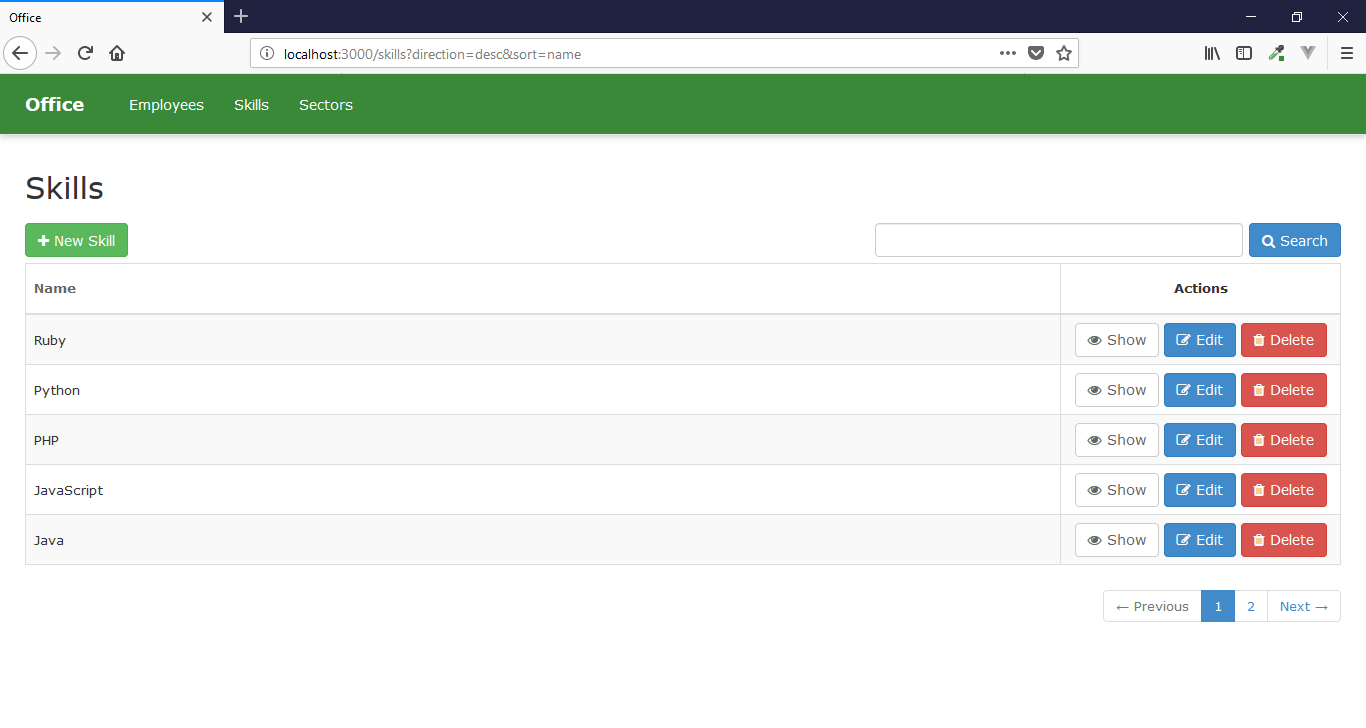
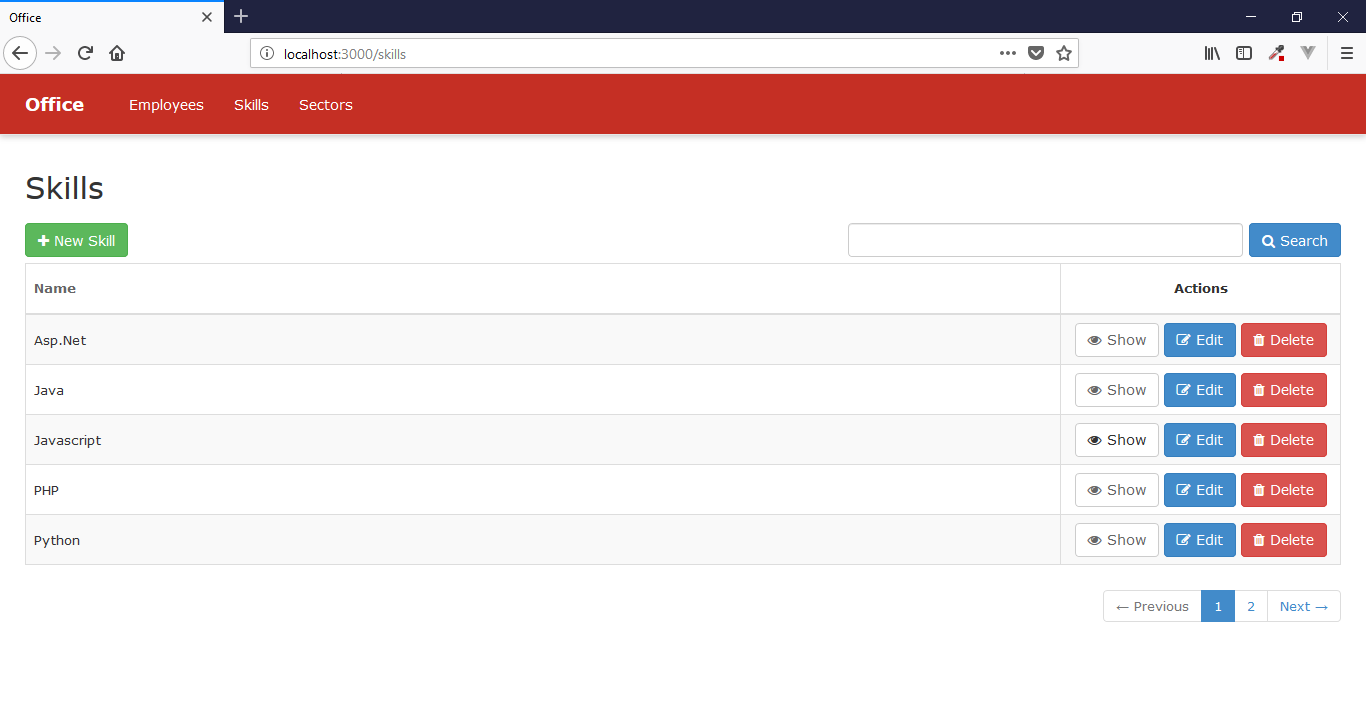
Update files

diff --git a/app/assets/stylesheets/scaffolds.scss b/app/assets/stylesheets/scaffolds.scss
@@ -63,7 +63,7 @@ a.btn-primary {
     z-index: 9 !important;
 }
 .navbar-default {
-    background-color: #398939 !important;
+    background-color: #C52F24 !important;
     box-shadow: 0px 2px 6px #ccc;
 }
 .navbar-default .navbar-nav {
@@ -143,6 +143,10 @@ td {
 
 .container-form {
 	margin-left: -15px !important;
+}
+
+.alert {
+  margin-top: 15px !important;
 }
 
 div {

diff --git a/app/controllers/employees_controller.rb b/app/controllers/employees_controller.rb
@@ -34,7 +34,7 @@ class EmployeesController < ApplicationController
 
     respond_to do |format|
       if @employee.save
-        format.html { redirect_to @employee, notice: 'Employee was successfully created.' }
+        format.html { redirect_to employees_url, notice: 'Employee was successfully created.' }
         format.json { render :show, status: :created, location: @employee }
       else
         format.html { render :new }
@@ -48,7 +48,7 @@ class EmployeesController < ApplicationController
   def update
     respond_to do |format|
       if @employee.update(employee_params)
-        format.html { redirect_to @employee, notice: 'Employee was successfully updated.' }
+        format.html { redirect_to employees_url, notice: 'Employee was successfully updated.' }
         format.json { render :show, status: :ok, location: @employee }
       else
         format.html { render :edit }

diff --git a/app/controllers/sectors_controller.rb b/app/controllers/sectors_controller.rb
@@ -34,7 +34,7 @@ class SectorsController < ApplicationController
 
     respond_to do |format|
       if @sector.save
-        format.html { redirect_to @sector, notice: 'Sector was successfully created.' }
+        format.html { redirect_to sectors_url, notice: 'Sector was successfully created.' }
         format.json { render :show, status: :created, location: @sector }
       else
         format.html { render :new }
@@ -48,7 +48,7 @@ class SectorsController < ApplicationController
   def update
     respond_to do |format|
       if @sector.update(sector_params)
-        format.html { redirect_to @sector, notice: 'Sector was successfully updated.' }
+        format.html { redirect_to sectors_url, notice: 'Sector was successfully updated.' }
         format.json { render :show, status: :ok, location: @sector }
       else
         format.html { render :edit }

diff --git a/app/controllers/skills_controller.rb b/app/controllers/skills_controller.rb
@@ -34,7 +34,7 @@ class SkillsController < ApplicationController
 
     respond_to do |format|
       if @skill.save
-        format.html { redirect_to @skill, notice: 'Skill was successfully created.' }
+        format.html { redirect_to skills_url, notice: 'Skill was successfully created.' }
         format.json { render :show, status: :created, location: @skill }
       else
         format.html { render :new }
@@ -48,7 +48,7 @@ class SkillsController < ApplicationController
   def update
     respond_to do |format|
       if @skill.update(skill_params)
-        format.html { redirect_to @skill, notice: 'Skill was successfully updated.' }
+        format.html { redirect_to skills_url, notice: 'Skill was successfully updated.' }
         format.json { render :show, status: :ok, location: @skill }
       else
         format.html { render :edit }
